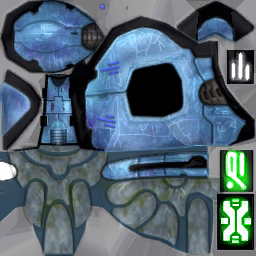
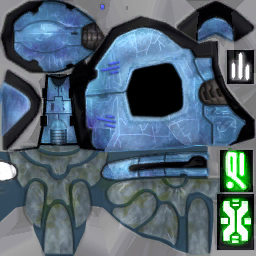
Honor Guard and Ranger inset lights: only their glyphs, the light panels see-through
Halo 2 draws the inset lights additively; they now get cut-out textures of their own (the glyph opaque and glowing,
the dark of the panel transparent), the Honor Guard's in amber, the Ranger's in their own green.

Claude-Session: https://claude.ai/code/session_01Ja8vbkayn83DPTjJrhXLXZ

Changed region(s): [[0.8125, 0.5312, 1.0, 0.8438], [0.8125, 0.8438, 1.0, 1.0], [0.9062, 0.8438, 0.9688, 0.875]]

diff --git a/docs/PACK_README.md b/docs/PACK_README.md
@@ -310,7 +310,7 @@ DoomEdNums 30284–30316 (alphabetical: `HCE_MarineArmoredBattleRifle` … `HCE_
   * **Heavy** (Halo 2's `grunt_heavy`, in Halo 3's green): the fuel rod on the Spec Ops body; it fights like the Spec Ops fuel-rod Grunt. `HCE_GruntHeavyFuelRod` (30318).
   * They get the same baked armour shine as the other Grunts, and are in the `HCE_RandomGrunt` / `HCE_RandomGruntSpecOps` spawners; Doom's monsters aren't replaced by them.
 * **Elite Heavy (new, green):** a rank between the Major and the Commander, in a deep green (the blue Minor's painted armour turned green, its shading and shine kept): 125 health and a 200-point shield, the Major's combat behaviour, and the heavier guns: the fuel rod in Halo 2's fuel-rod stance (`HCE_EliteHeavyFuelRod`, 30322), the plasma rifle (`HCE_EliteHeavyPlasmaRifle`, 30324) and the needler (`HCE_EliteHeavyNeedler`, 30323). In the random Elite pool, and among the Hell Knights' replacements on the harder skill levels.
-* **Honor Guard Elites (new):** the High Council's guard, **Halo 2's whole Honor Guard** (`extract_h2_elite_kit.py`: Halo 2's Elite body and head, its tall twin-crested ceremonial helmet and the honour plates on the shoulders, arms and thighs, carried bone by bone onto the CE Elite, which is hidden under it, so it plays every CE Elite animation). Its armour is coloured through Halo 2's own colour-change masks, **crimson plates with gold trim**, with Halo 2's bump shading and a cube-map reflection under its specular mask; the honour plates are blue with their glowing red markings, and the chest and helmet inset lights glow amber. The Commander's build (they guard the Prophets), with the **plasma rifle** (`HCE_EliteHonorGuardPlasmaRifle`, 30345), the **energy sword** (`HCE_EliteHonorGuardEnergySword`, 30344, charging and berserk like the sword Elites) or the **plasma carbine** (`HCE_EliteHonorGuardPlasmaCarbine`, 30457, Digsite add-on): the Honor Guards' guns in Halo's fiction. A severed head or arm takes its part of the armour with it.
+* **Honor Guard Elites (new):** the High Council's guard, **Halo 2's whole Honor Guard** (`extract_h2_elite_kit.py`: Halo 2's Elite body and head, its tall twin-crested ceremonial helmet and the honour plates on the shoulders, arms and thighs, carried bone by bone onto the CE Elite, which is hidden under it, so it plays every CE Elite animation). Its armour is coloured through Halo 2's own colour-change masks, **crimson plates with gold trim**, with Halo 2's bump shading and a cube-map reflection under its specular mask; the honour plates are blue with their glowing red markings, and the chest and helmet inset lights glow amber (only their glyphs: the dark of each light panel is cut away, as Halo 2 draws them additively). The Commander's build (they guard the Prophets), with the **plasma rifle** (`HCE_EliteHonorGuardPlasmaRifle`, 30345), the **energy sword** (`HCE_EliteHonorGuardEnergySword`, 30344, charging and berserk like the sword Elites) or the **plasma carbine** (`HCE_EliteHonorGuardPlasmaCarbine`, 30457, Digsite add-on): the Honor Guards' guns in Halo's fiction. A severed head or arm takes its part of the armour with it.
 * **Ranger Elites (new):** Halo 2's EVA Elites from Regret's towers, with a **jump pack**: **Halo 2's whole Ranger** (`extract_h2_elite_kit.py`: its EVA suit, armour plates, sealed helmet and head, carried bone by bone onto the CE Elite, which is hidden under it, so it plays every CE Elite animation), its colour maps with Halo 2's bump shading and a gentle cube-map reflection under Halo 2's own specular mask, its green inset lights glowing. The gold eye lenses reflect a cube map per pixel like the ODST visors (the glass bowed so the reflection sweeps across it). Halo 2's jump pack sits on its back where Halo 2's Ranger carries it, in dark gunmetal with a light chrome sheen (its colour-change panels), its cyan and green lights glowing in their own colours. A Minor's build (Halo 2's `elite_ranger` char: 30 body, 70 shield), with the **plasma rifle** (`HCE_EliteRangerPlasmaRifle`, 30347), the **needler** (`HCE_EliteRangerNeedler`, 30346) or the **plasma carbine** (`HCE_EliteRangerPlasmaCarbine`, 30458, Digsite add-on). A severed head or arm takes its part of the suit with it.
   * **The jump pack:** now and then in a fight, with its enemy in sight, a Ranger fires the pack and lifts onto higher ground near by (a ledge, a crate, a balcony with room to stand) or, with none, hops to a fresh spot at fighting range. It climbs on a jet of blue exhaust and drifts down slowly on the pack, firing as it goes; spots are open floor (never a damaging one) with headroom, no wall in the way at the height of the hop and not too close to the enemy. HaloDoom Evolved's jetpack sounds where HDE is loaded.
 * **Fuel-rod Elite (new, `HCE_EliteMajorFuelRod`, 30282):** a Major Elite with the fuel rod gun, in **Halo 2's fuel-rod stance**. Halo CE's and Halo 2's Elites are the same 3ds Max biped: every CE bone has a Halo 2 twin with the same parent and the same offset in its parent's frame, so Halo 2's animations play on the CE Elite as they are (`h2_elite_anims.py`). It gets Halo 2's fuel-rod idle, moves, turns, dives, evades, grenade throw, berserk, melee and the firing overlay. Its firing data is the Spec Ops Grunt's fuel rod; it drops HDE's fuel rod.
